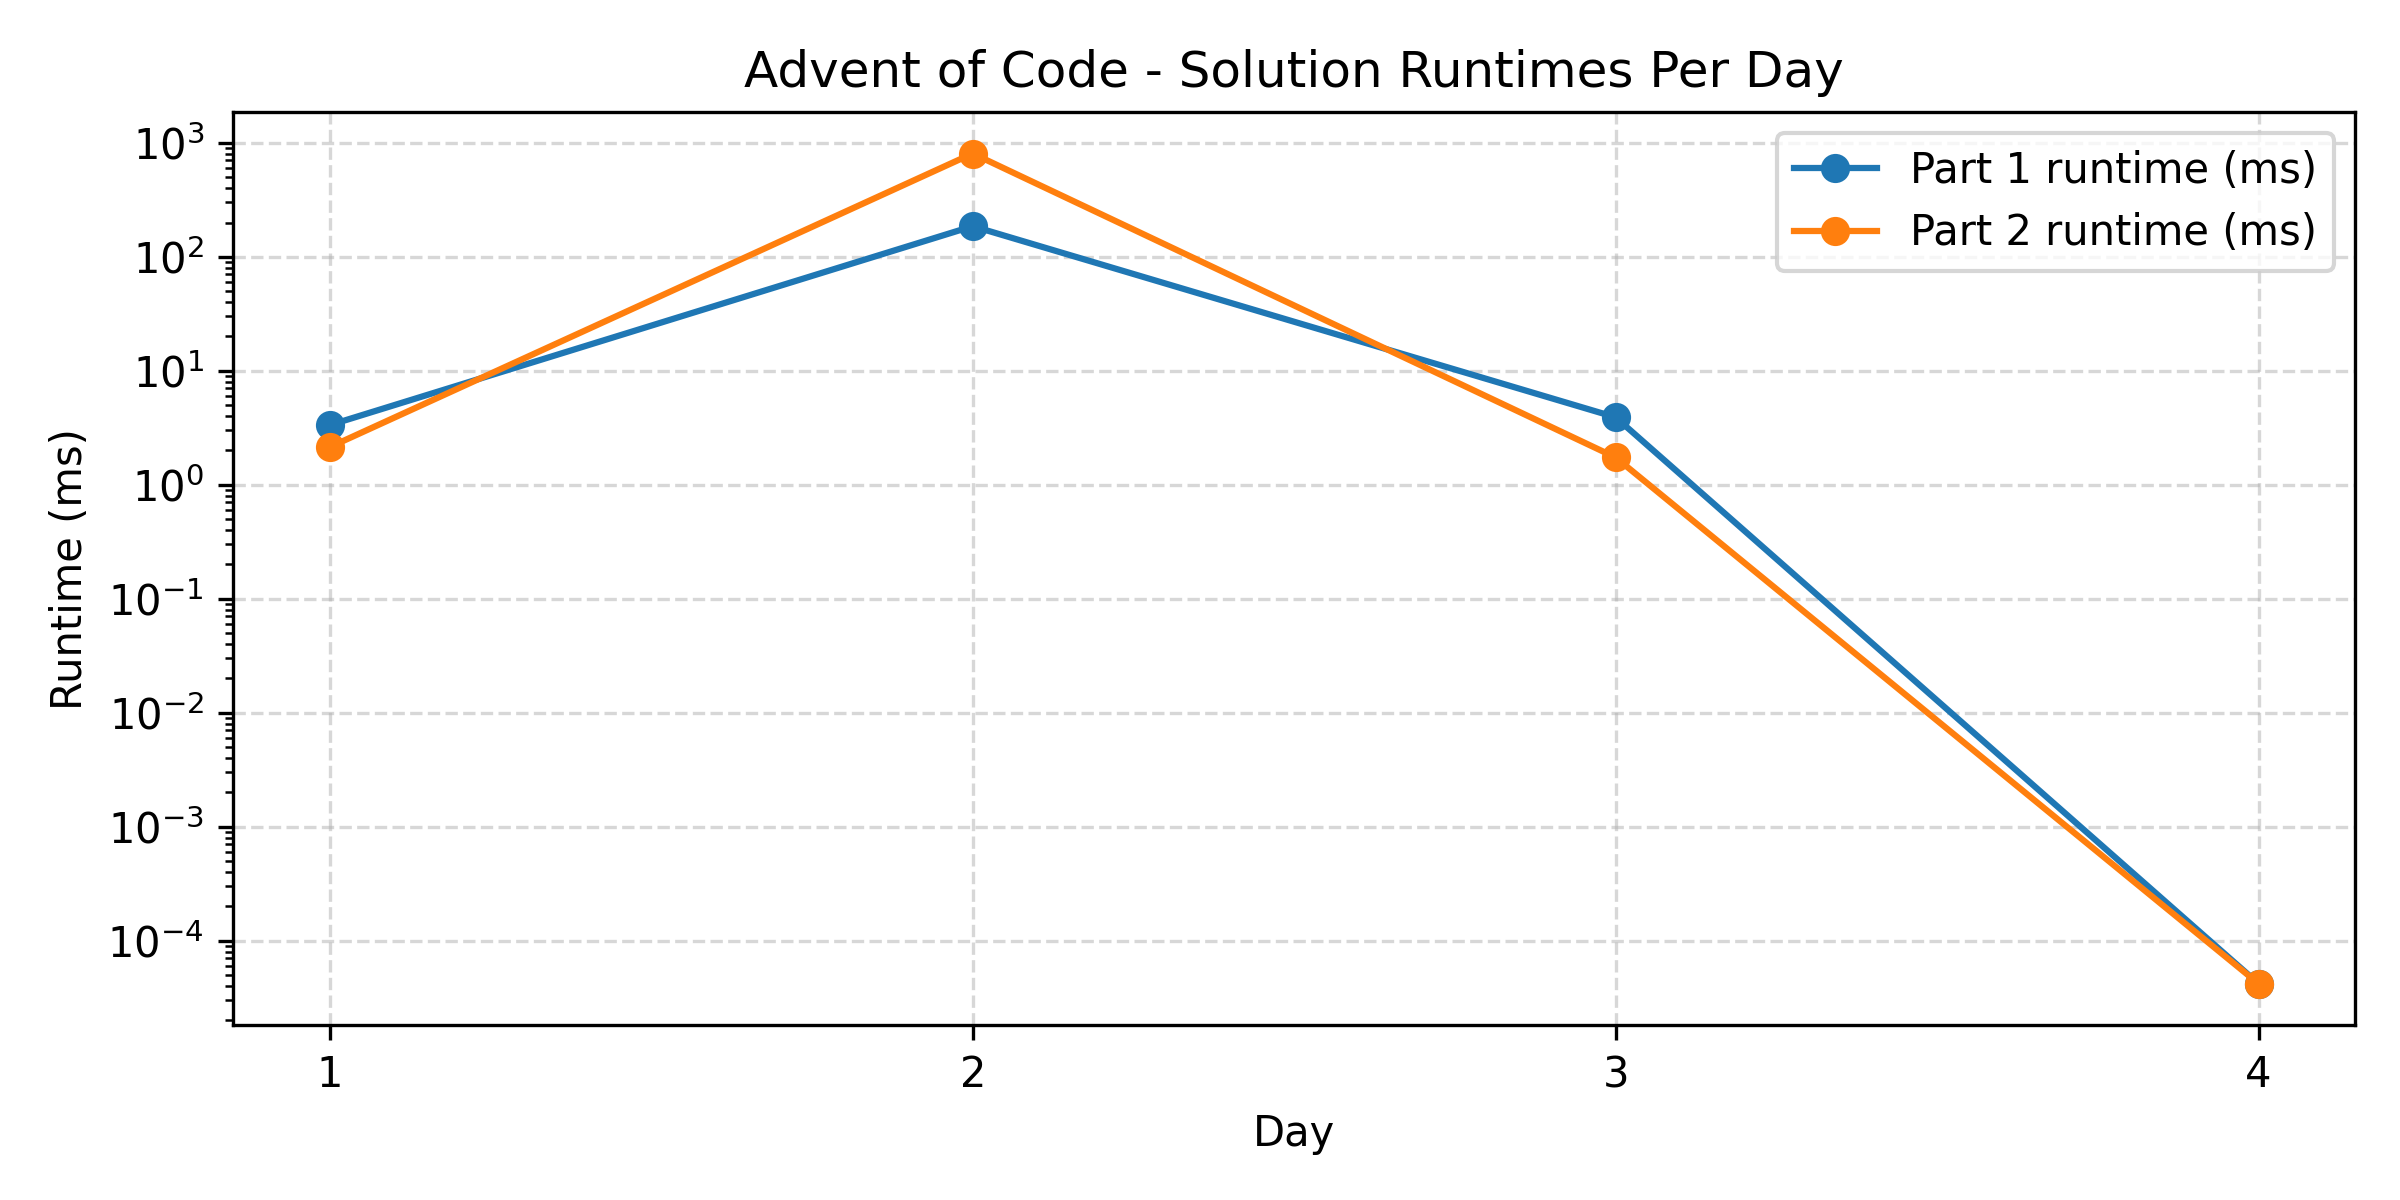
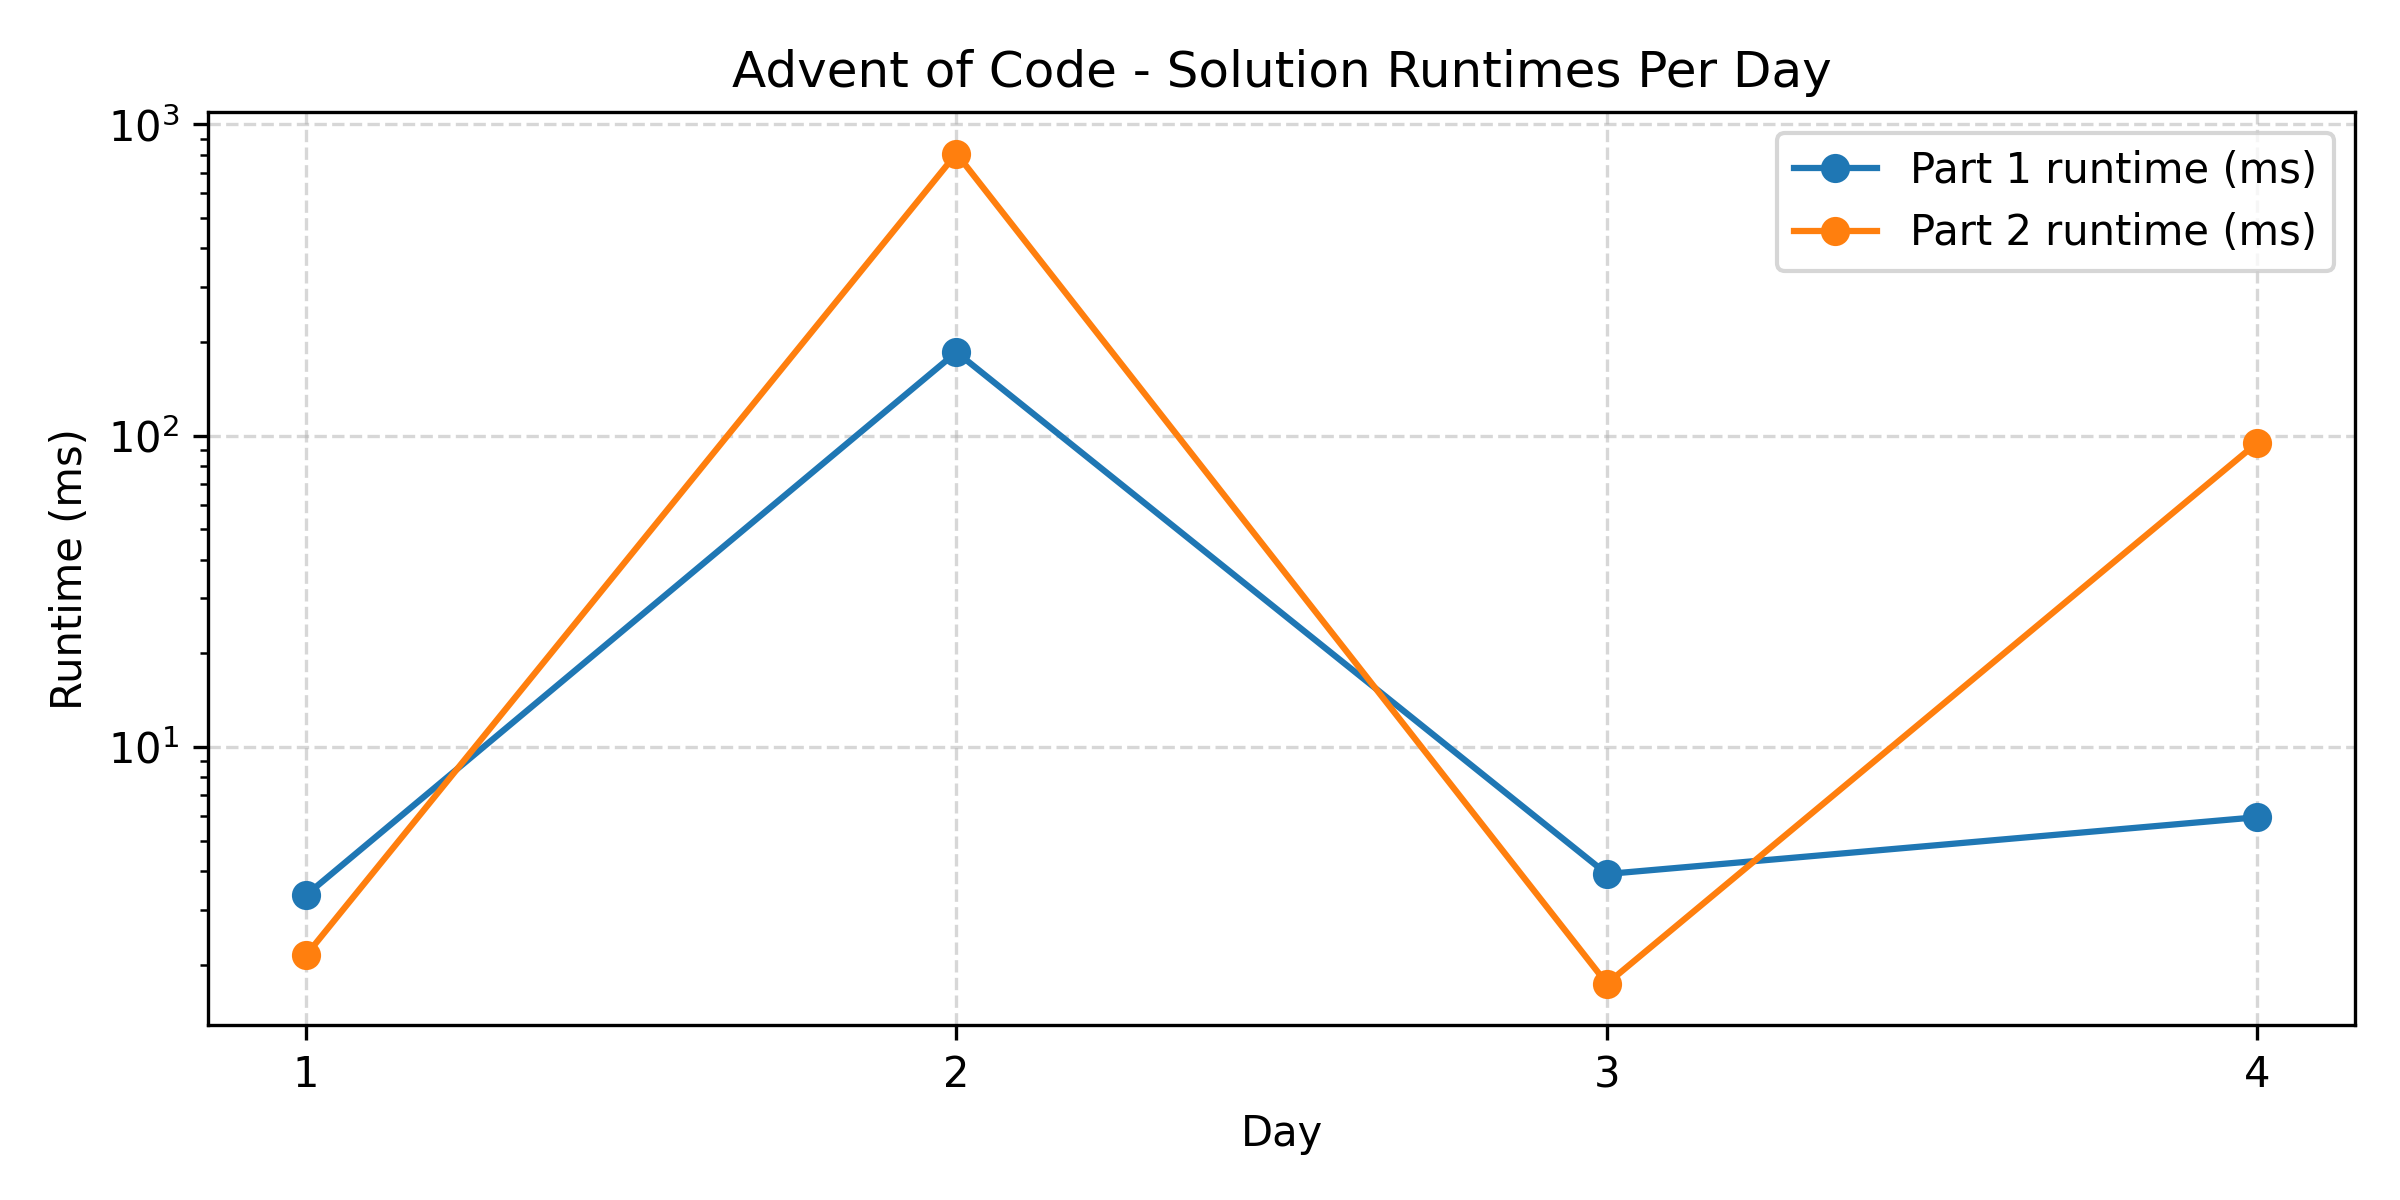
Make sure no optimization against function call

diff --git a/2025/day04/src/main.rs b/2025/day04/src/main.rs
@@ -72,10 +72,14 @@ fn p2(input: &str) -> usize {
 
 fn main() {
     let now = Instant::now();
-    println!("p1: {:.6} ms {}", now.elapsed().as_secs_f64() * 1000.0, p1(INPUT));
+    let solution = p1(INPUT);
+    let elapsed = now.elapsed();
+    println!("p1: {:?} {}", elapsed, solution);
 
     let now = Instant::now();
-    println!("p2: {:.6} ms {}", now.elapsed().as_secs_f64() * 1000.0, p2(INPUT));
+    let solution = p2(INPUT);
+    let elapsed = now.elapsed();
+    println!("p2: {:?} {}", elapsed, solution);
 }
 
 #[cfg(test)]

diff --git a/README.md b/README.md
@@ -44,7 +44,7 @@ My chosen language of 2025 is Rust.
 | [1](2025/day01/src/main.rs) | 3.340542ms       | 2.141500ms       |
 | [2](2025/day02/src/main.rs) | 185.548583ms     | 806.102792ms     |
 | [3](2025/day03/src/main.rs) | 3.910500ms       | 1.737917ms       |
-| [4](2025/day04/src/main.rs) | 0.000042ms       | 0.000042ms       |
+| [4](2025/day04/src/main.rs) | 5.953292ms       | 95.027167ms      |
 <!-- END CSV TABLE -->
 
 
